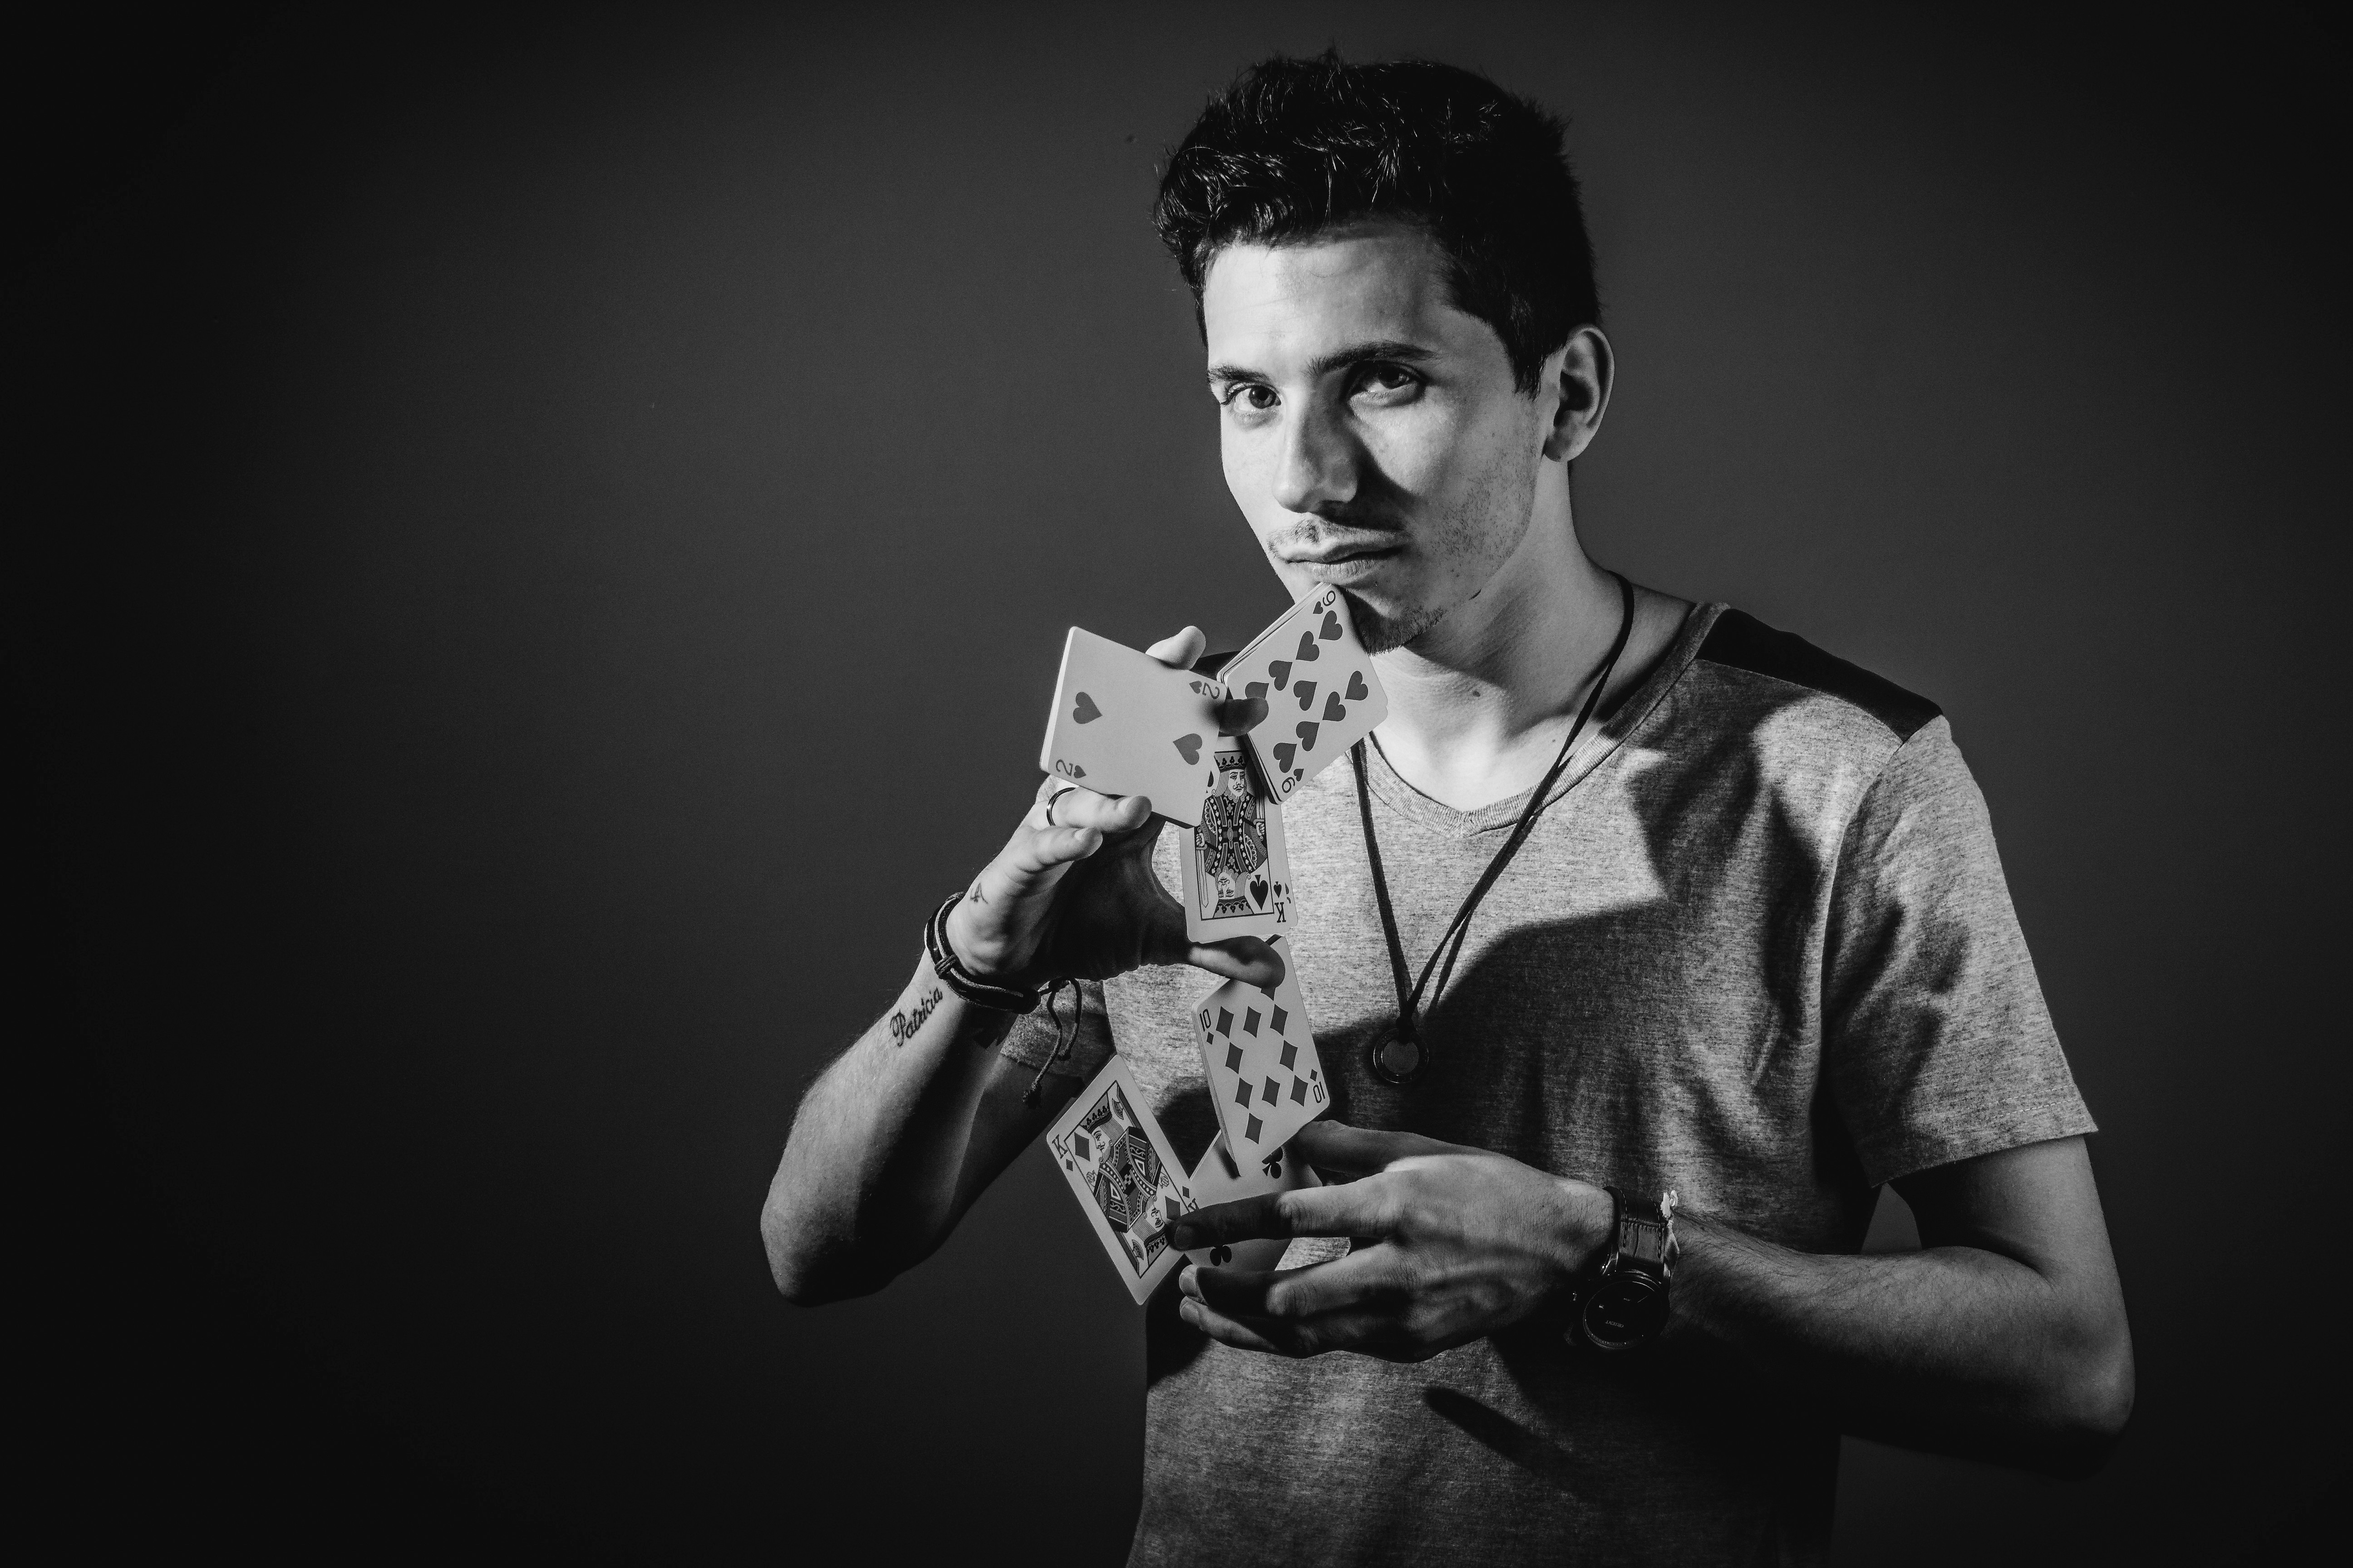
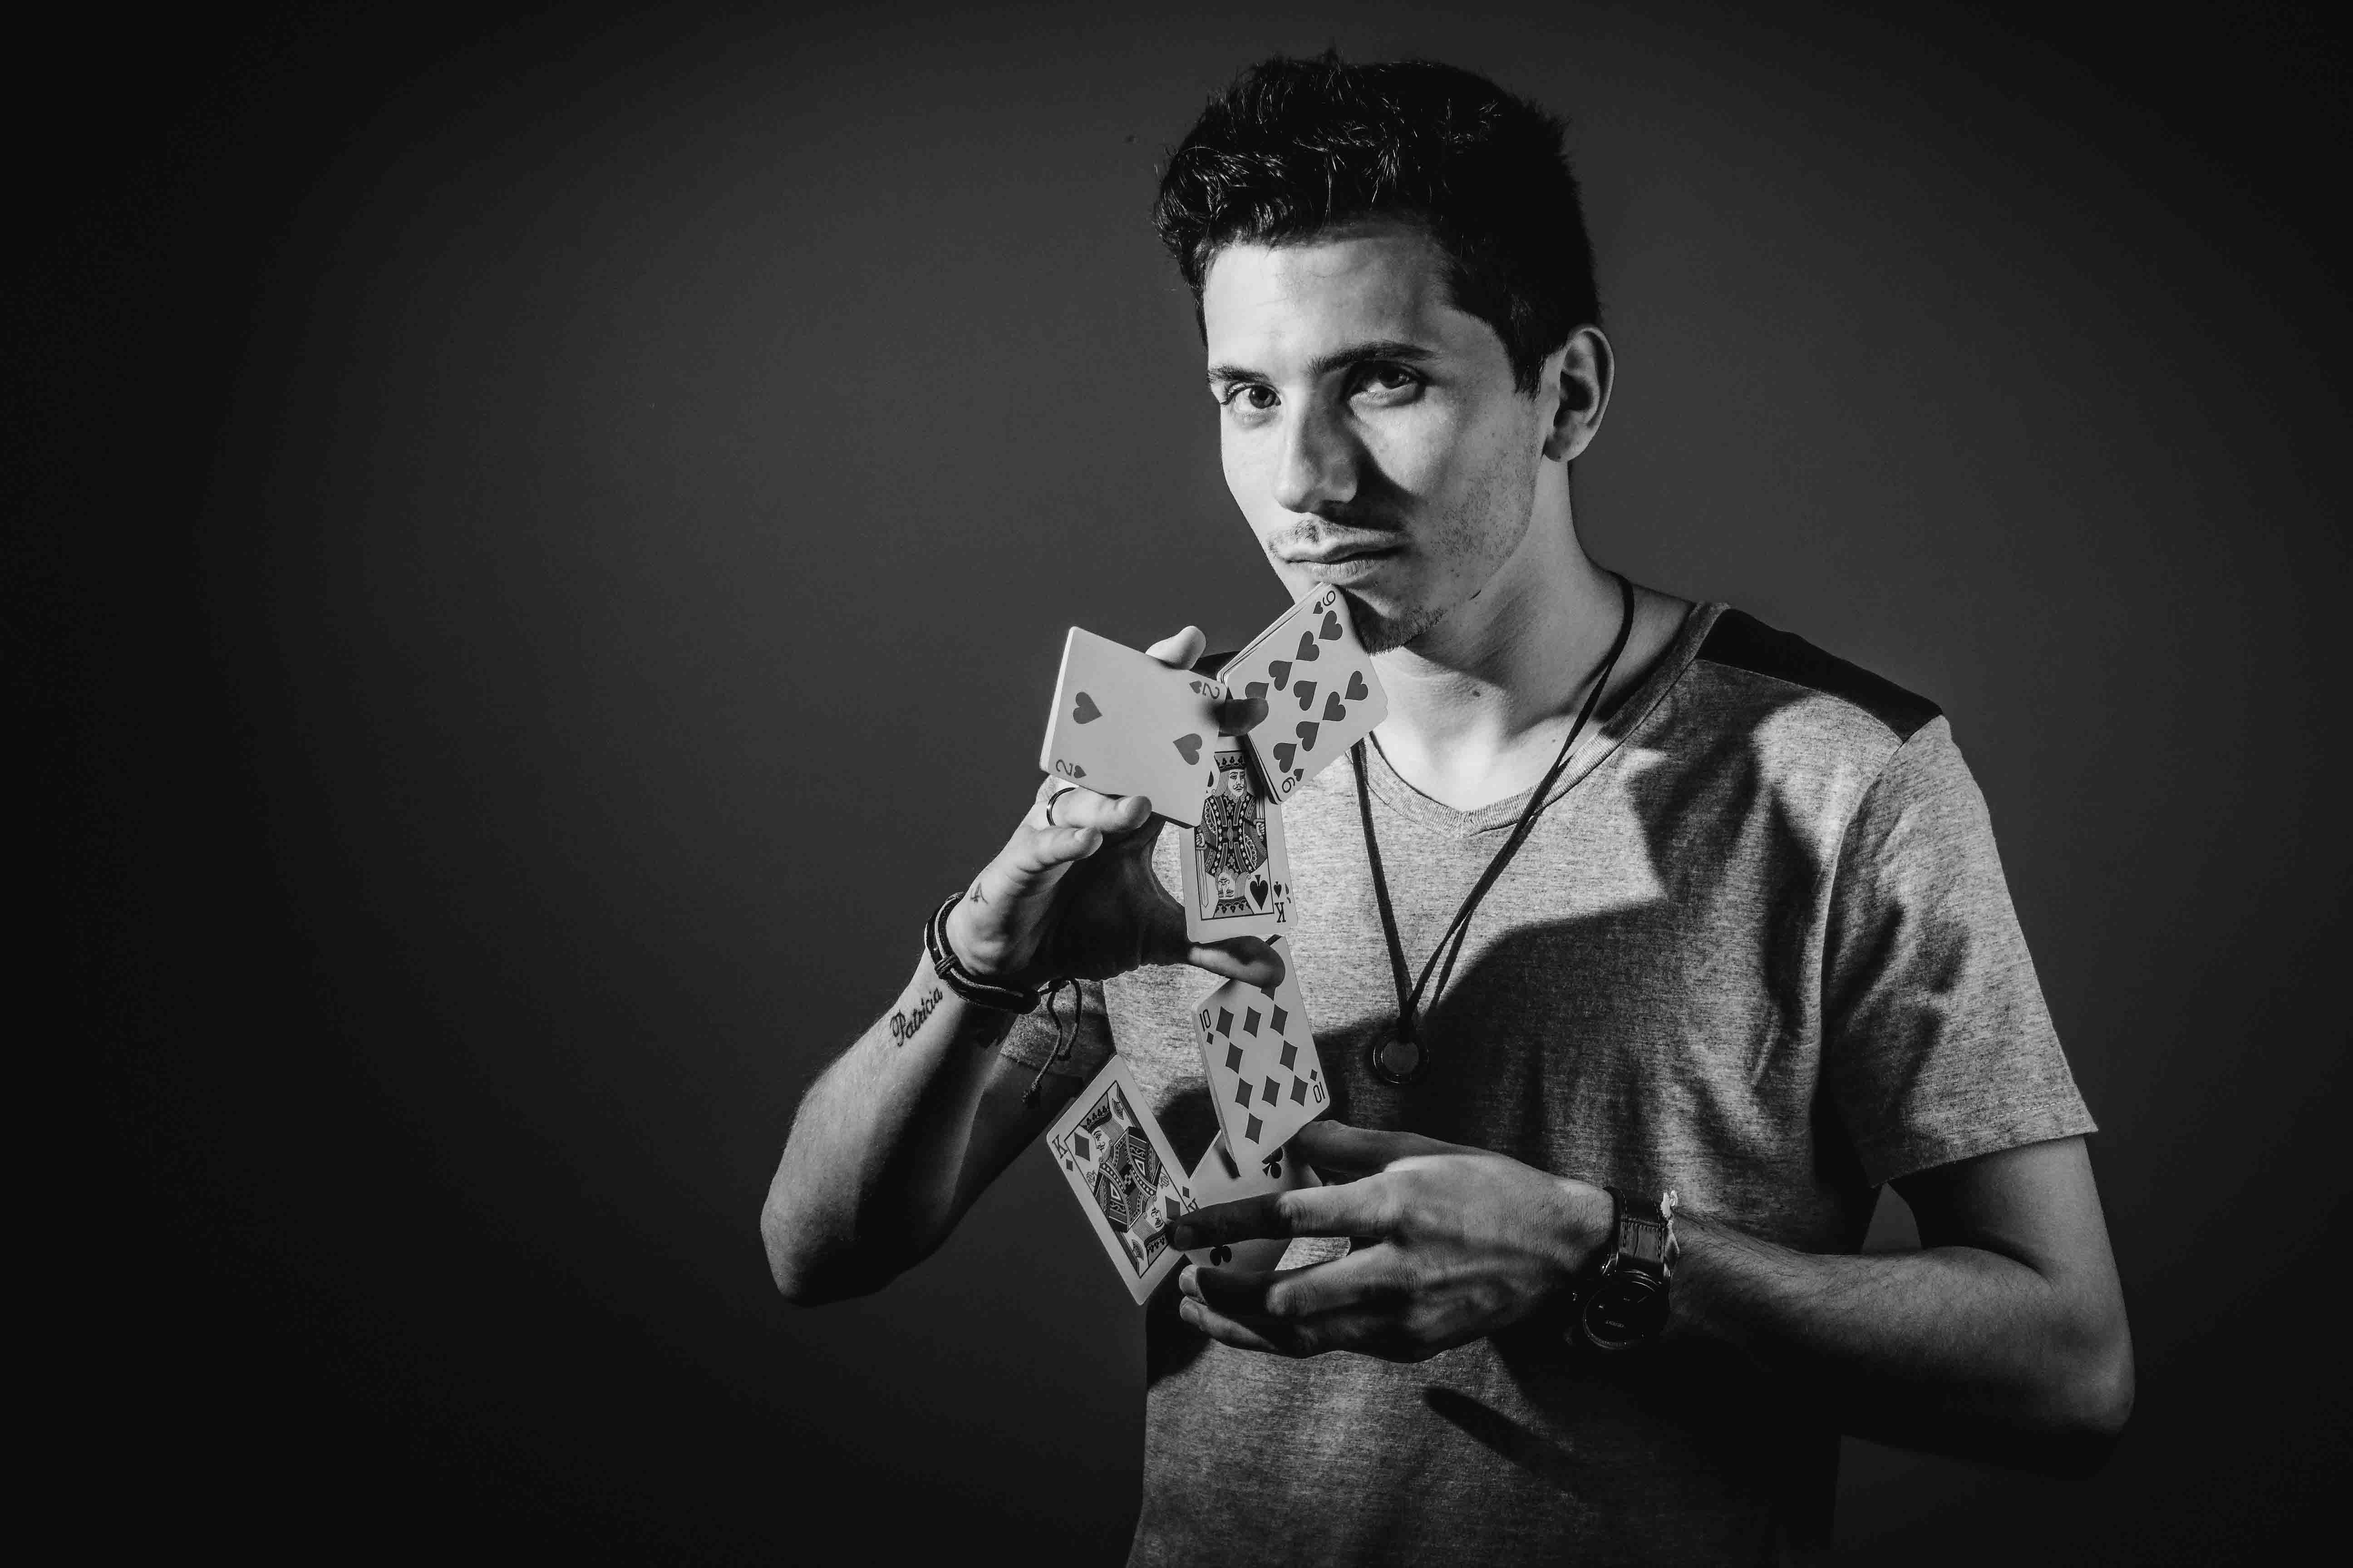
Redução do tamanho das imagens

diff --git a/index.html b/index.html
@@ -371,16 +371,19 @@
 					<form id="contact-form" role="form">
 						<div class="form-group">
 							<label class="sr-only" for="nome">Nome</label>
-							<input type="text" name="nome" id ="nome" class="form-control" required="required" placeholder="Nome">
+							<input type="text" name="nome" id ="nome" class="form-control" required="required" placeholder="Nome" 
+							oninvalid="this.setCustomValidity('Por favor preencha esse campo')" oninput="setCustomValidity('')">
 						</div>
 
 						<div class="form-group">
 							<label class="sr-only" for="email">Email</label>
-							<input type="text" name = "email" id="email" class="form-control" required="required" placeholder="Email">
+							<input type="text" name = "email" id="email" class="form-control" required="required" placeholder="Email"
+							oninvalid="this.setCustomValidity('Por favor preencha esse campo')" oninput="setCustomValidity('')">
 					    </div>
 
 						<div class="form-group">
-							<textarea name="mensagem" id="mensagem" required="required" class="form-control" rows="8" placeholder="Mensagem"></textarea>
+							<textarea name="mensagem" id="mensagem" required="required" class="form-control" rows="8" placeholder="Mensagem"
+							oninvalid="this.setCustomValidity('Por favor preencha esse campo')" oninput="setCustomValidity('')"></textarea>
 						</div>
 
 						<button type="submit" class="btn btn-custom-1">
